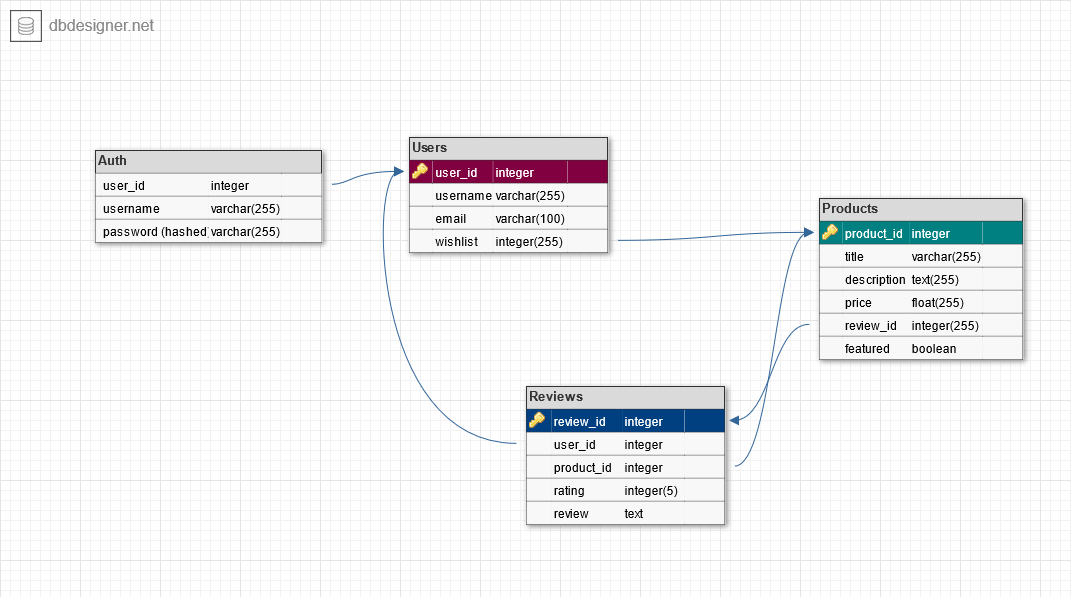
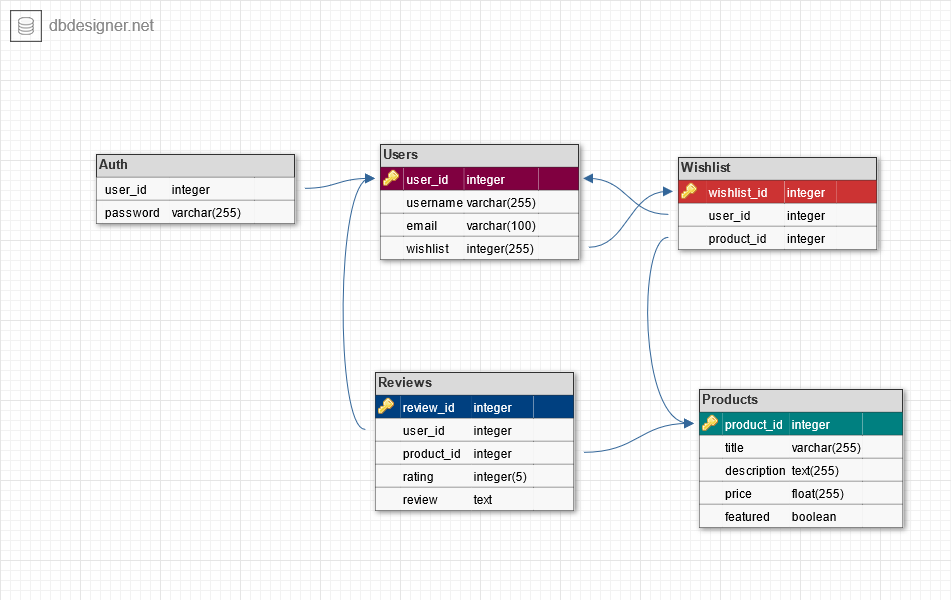
data model fixed

Changed region(s): [[0.0915, 0.2111, 0.9758, 0.9045], [0.0, 0.0302, 0.183, 0.0905], [0.6709, 0.5126, 0.7319, 0.5427]]

diff --git a/database.py b/database.py
@@ -1,0 +1,1 @@
+from flask_sqlalchemy import SQLAlchemy

diff --git a/README.md b/README.md
@@ -23,9 +23,9 @@ Data model of the database for the project.
 <img src='welding_site_db_model.png' height=500px>
 
 #### Info Stored
-    -Users: user_id, email, password, username, wishlist items
+    -Users: user_id, email, password, username, wishlist_id
     -Reviews: review_id, user_id, product_id, review_content, rating
-    -Products: product_id, title, description, price, review_id
+    -Products: product_id, title, description, price
 
 #### Tables
 
@@ -33,11 +33,16 @@ __users__
 - *user_id*, serial primary key
 - _username_, varchar(255) unique not null
 - _email_, varchar(255) unique not null
-- _wishlist_, list of product_id's that reference products
+- *wishlist_id*, references wishlist
 
 __auth__
 - *user_id*, references users
 - username/password are stored and checked here for login
+
+__wishlist__
+- *wishlist_id*, serial primary key
+- *user_id*, references users
+- *product_id*, references products
 
 __reviews__
 - *review_id*, serial primary key
@@ -51,7 +56,6 @@ __products__
 - *title*, varchar(255)
 - *description*, text description
 - *price*, float
-- *review_id*, references reviews for product if any
 - *featured*, boolean true if the product is featured
 
 
